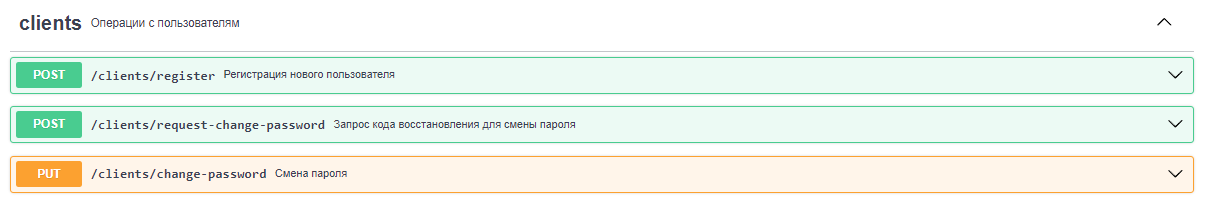
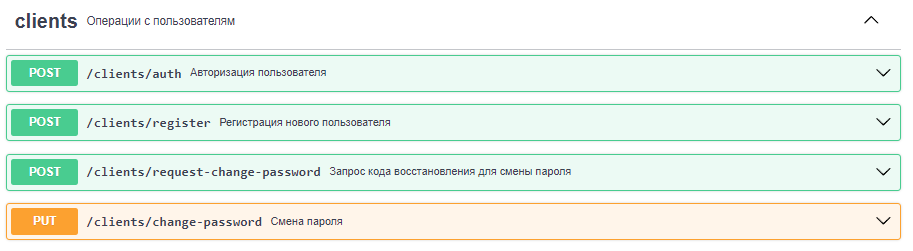
add request POST auth

Changed region(s): [[0.0, 0.1714, 1.0, 0.9714], [0.0, 0.0571, 0.276, 0.1429], [0.9507, 0.0571, 0.9814, 0.1143]]

diff --git a/src/main/java/org/example/blps_lab3_monolit/app/service/ClientService.java b/src/main/java/org/example/blps_lab3_monolit/app/service/ClientService.java
@@ -28,13 +28,26 @@ public class ClientService {
     private RoleRepository roleRepository;
     private PasswordEncoder passwordEncoder;
 
+    public boolean auth(String username, String password) throws Exception{
+        if (username == null || username.isEmpty() || password == null || password.isEmpty()){
+            throw new Exception("Fields can't be empty");
+        }
+
+        Client client = clientRepository.findByUsername(username);
+        if (client == null) {
+            throw new NoSuchElementException("User " + username + " not found");
+        }
+
+        return passwordEncoder.matches(password, client.getPassword());
+    }
+
     public ClientDTO register(RegisterDTO registerDTO) throws Exception {
         if (clientRepository.existsByUsername(registerDTO.getUsername())) {
             throw new Exception("Username is already taken!");
         }
 
         if (registerDTO.antiCheckerRegister()){
-            throw new IllegalArgumentException("Данные введены некорректно, все поля должны быть заполнены");
+            throw new Exception("Fields can't be empty");
         }
 
         if (clientRepository.existsByEmail(registerDTO.getEmail())) {
@@ -63,7 +76,7 @@ public class ClientService {
     public void requestChangePassword(String username) throws NoSuchElementException{
         Client client = clientRepository.findByUsername(username);
         if (client == null) {
-            throw new NoSuchElementException("Пользователь с username " + username + " не найден");
+            throw new NoSuchElementException("User " + username + " not found");
         }
 
         String restorePassword = generateRestorePassword();
@@ -91,18 +104,20 @@ public class ClientService {
     }
 
 
-    public void changePassword(String username, String restorePassword, String newPassword) throws NoSuchElementException, IllegalArgumentException{
+    public void changePassword(String username, String restorePassword, String newPassword) throws Exception{
         Client client = clientRepository.findByUsername(username);
         if (client == null) {
-            throw new NoSuchElementException("Пользователь с username " + username + " не найден");
+            throw new NoSuchElementException("User " + username + " not found");
         }
 
         if (!passwordEncoder.matches(restorePassword, client.getRestorePassword())){
-            throw new IllegalArgumentException("Введен некорректный код восстановления");
+            throw new Exception("Incorrect restore password");
         }
 
         client.setRestorePassword(null);
         client.setPassword(passwordEncoder.encode(newPassword));
         clientRepository.save(client);
     }
+
+
 }

diff --git a/src/main/java/org/example/blps_lab3_monolit/app/controller/ClientController.java b/src/main/java/org/example/blps_lab3_monolit/app/controller/ClientController.java
@@ -22,6 +22,27 @@ import java.util.NoSuchElementException;
 public class ClientController {
     private ClientService clientService;
 
+    @PostMapping("/auth")
+    public ResponseEntity<?> auth(@RequestParam String username,
+                                  @RequestParam String password) {
+        Map<String, String> response = new HashMap<>();
+        try{
+            boolean result = clientService.auth(username, password);
+            if (result){
+                response.put("message", "Authorized");
+                return new ResponseEntity<>(response, HttpStatus.OK);
+            }
+            else {
+                response.put("error", "Incorrect user data");
+                return new ResponseEntity<>(response, HttpStatus.UNAUTHORIZED);
+            }
+
+        } catch (Exception e){
+            response.put("error", e.getMessage());
+            return new ResponseEntity<>(response, HttpStatus.BAD_REQUEST);
+        }
+    }
+
     @PostMapping("/register")
     public ResponseEntity<?> register(@RequestBody RegisterDTO registerDTO) {
         Map<String, String> response = new HashMap<>();
@@ -46,7 +67,7 @@ public class ClientController {
         }
     }
 
-    @PostMapping("/change-password")
+    @PutMapping("/change-password")
     public ResponseEntity<?> changePassword(@RequestBody ChangePasswordDTO changePasswordDTO){
         Map<String, String> response = new HashMap<>();
         try{

diff --git a/src/main/java/org/example/blps_lab3_monolit/security/SecurityConfig.java b/src/main/java/org/example/blps_lab3_monolit/security/SecurityConfig.java
@@ -25,6 +25,7 @@ public class SecurityConfig {
     SecurityFilterChain securityFilterChain(HttpSecurity http) throws Exception {
         http
                 .csrf((csrf) -> csrf.ignoringRequestMatchers("/**"))
+                .authorizeHttpRequests((requests) -> requests.requestMatchers(HttpMethod.POST, "/clients/auth").permitAll())
                 .authorizeHttpRequests((requests) -> requests.requestMatchers(HttpMethod.POST, "/clients/register").permitAll())
                 .authorizeHttpRequests((requests) -> requests.requestMatchers(HttpMethod.POST, "/clients/request-change-password").permitAll())
                 .authorizeHttpRequests((requests) -> requests.requestMatchers(HttpMethod.PUT, "/clients/change-password").permitAll())
